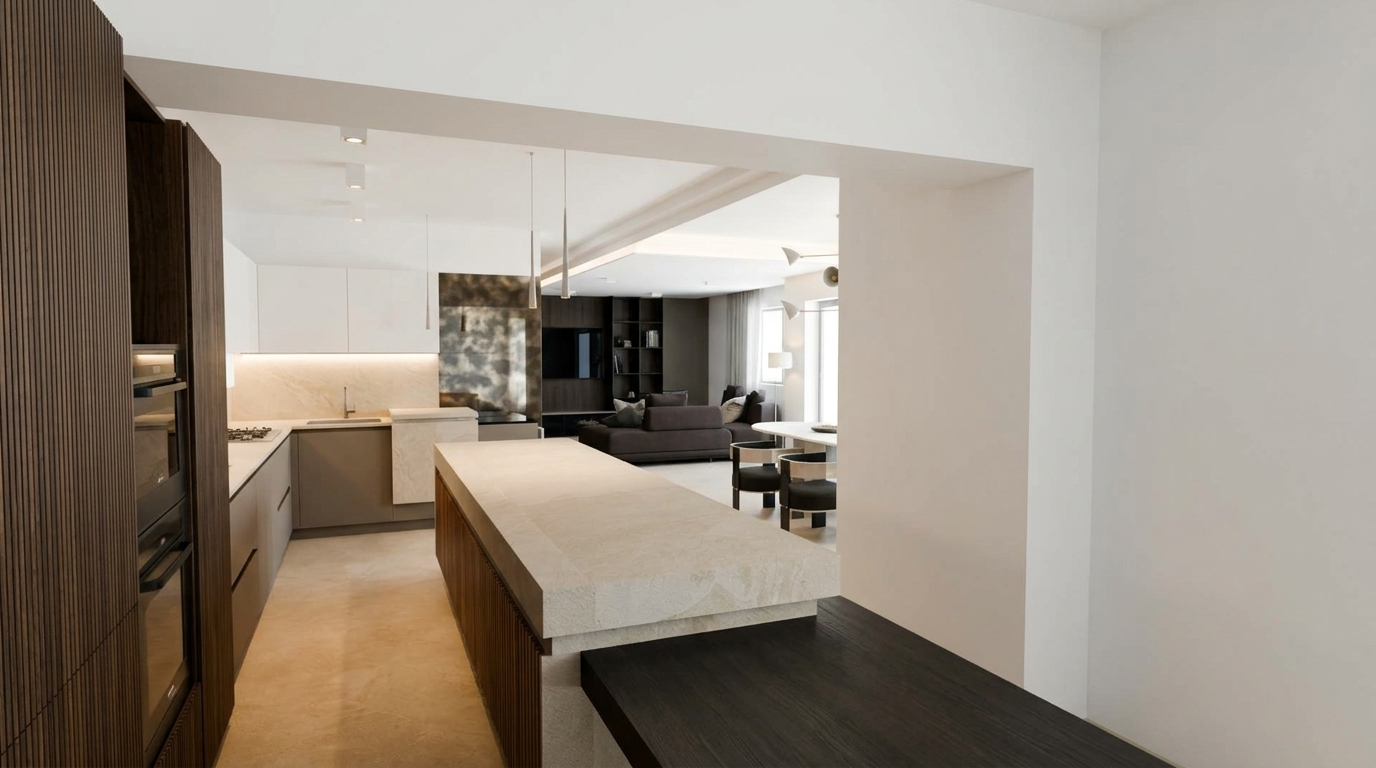
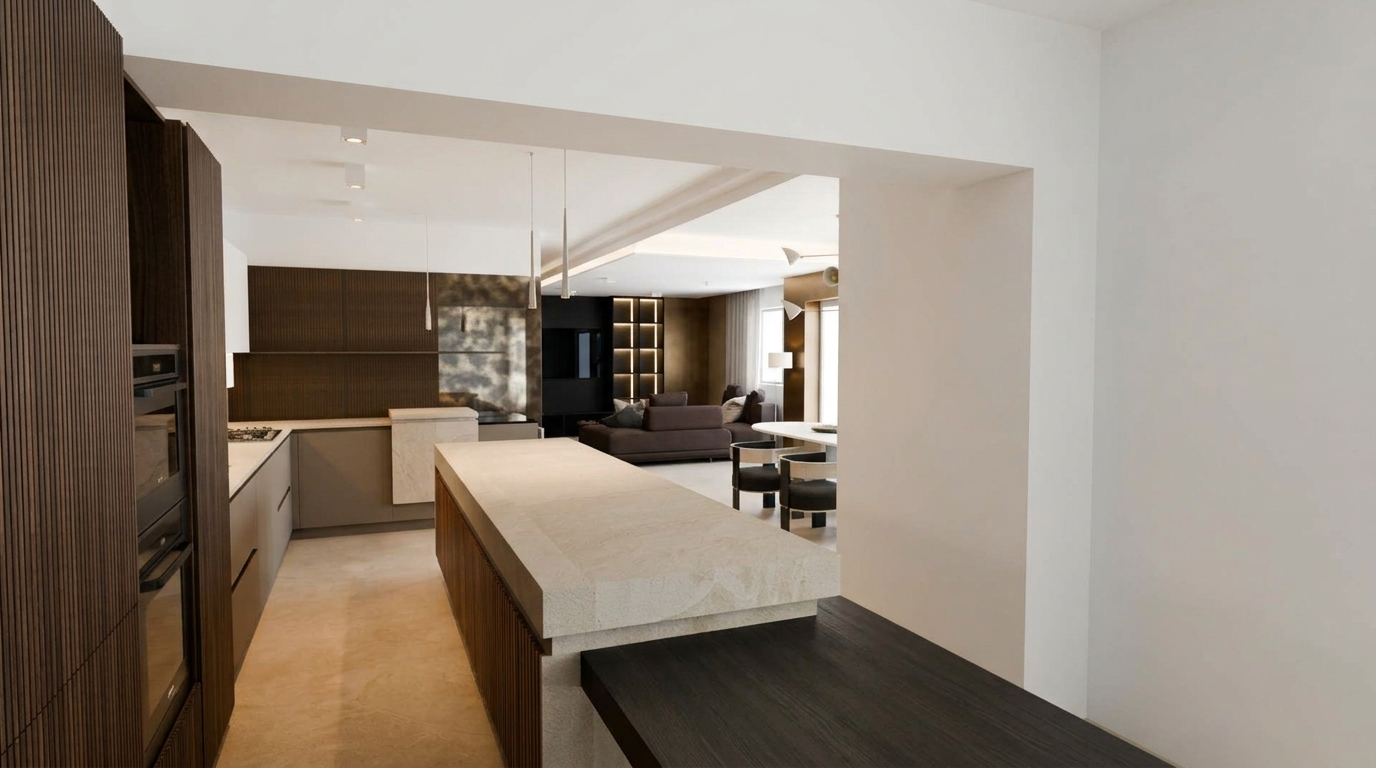
Casa Traversa: cucina verso il soggiorno senza pensili e vista dell'isola con la vetrata, corrette da Matteo
Claude-Session: https://claude.ai/code/session_01XMFoKzqgMEMKtF6ZYPzbAh

Changed region(s): [[0.0938, 0.3438, 0.3438, 0.5938], [0.375, 0.3438, 0.625, 0.5938]]

diff --git a/area-ct26/index.html b/area-ct26/index.html
@@ -313,7 +313,7 @@ footer { padding:24px 40px;border-top:.5px solid rgba(255,255,255,.06);display:f
       <figure class="wide"><img src="render/cucina-prospetto.jpg" alt="La parete della cucina di fronte: basi tortora con lavello e piano cottura, pensili chiari divisi in tre ante allineate alle basi, colonne forno in legno doghettato" loading="lazy"><figcaption>La cucina aggiornata, parete del lavello · pensili in tre ante allineate alle basi · B.1</figcaption></figure>
       <figure><img src="render/cucina-vista-1.jpg" alt="La cucina dal tavolo da pranzo: isola doghettata con piano in pietra, colonne forno e parete del lavello" loading="lazy"><figcaption>Dal tavolo da pranzo · B.1</figcaption></figure>
       <figure><img src="render/cucina-vista-2.jpg" alt="La cucina verso il soggiorno, con lo specchio fumé anticato sulla parete di destra" loading="lazy"><figcaption>Verso il soggiorno, con lo specchio fumé anticato · B.1</figcaption></figure>
-      <figure><img src="render/cucina-vista-4.jpg" alt="L'isola con il fronte doghettato e il piano in pietra, le colonne e le basi del lavello" loading="lazy"><figcaption>L'isola doghettata · B.1</figcaption></figure>
+      <figure><img src="render/cucina-vista-4.jpg" alt="L'isola con il fronte doghettato e il piano in pietra, le colonne, le basi del lavello e in fondo la vetrata apribile" loading="lazy"><figcaption>L'isola doghettata e la vetrata apribile · B.1</figcaption></figure>
       <figure><img src="render/cucina-vista-3.jpg" alt="Il piano dell'isola in primo piano con le colonne forno e la parete TV in pietra" loading="lazy"><figcaption>Isola, colonne e parete TV · B.1, B.4</figcaption></figure>
       <figure><img src="render/cucina-soggiorno-fume.jpg" alt="Cucina, scala e soggiorno in un'unica vista, con il controsoffitto a gole luminose" loading="lazy"><figcaption>Cucina, scala e soggiorno, con lo specchio fumé anticato · A.5, B.1, B.4</figcaption></figure>
       <figure><img src="render/zona-giorno-vuota.jpg" alt="La zona giorno dopo demolizioni e pavimento nuovo, prima degli arredi" loading="lazy"><figcaption>Dopo demolizioni e pavimento, prima degli arredi · A.1, A.2</figcaption></figure>
